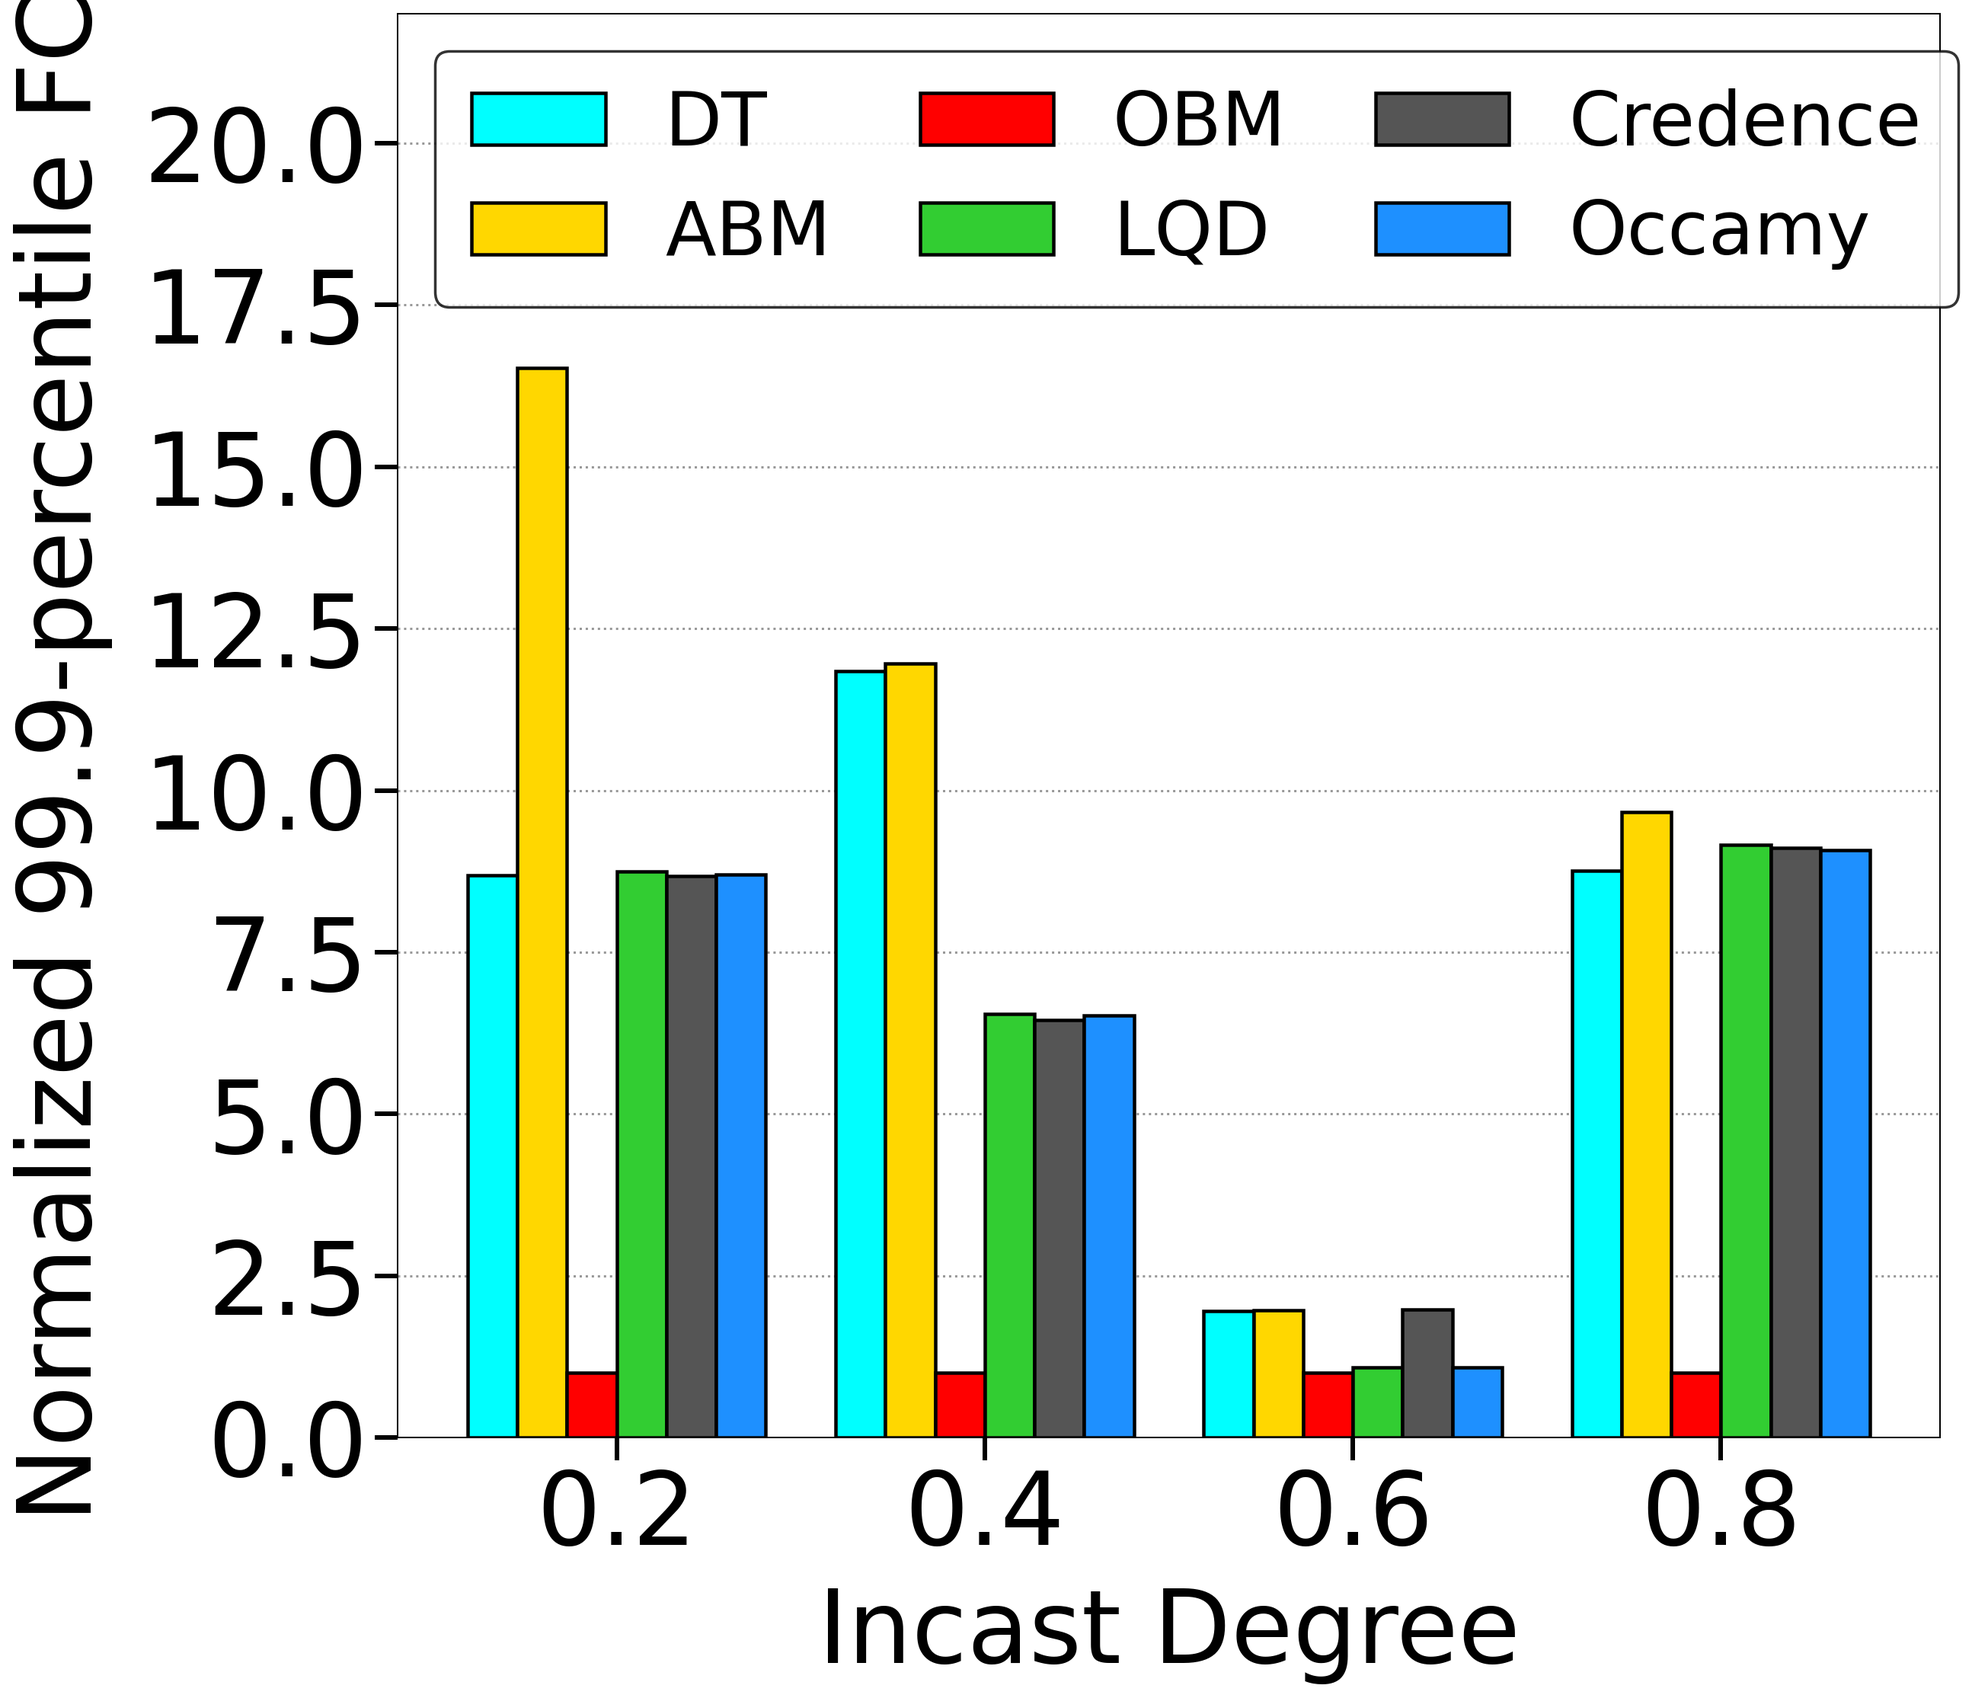
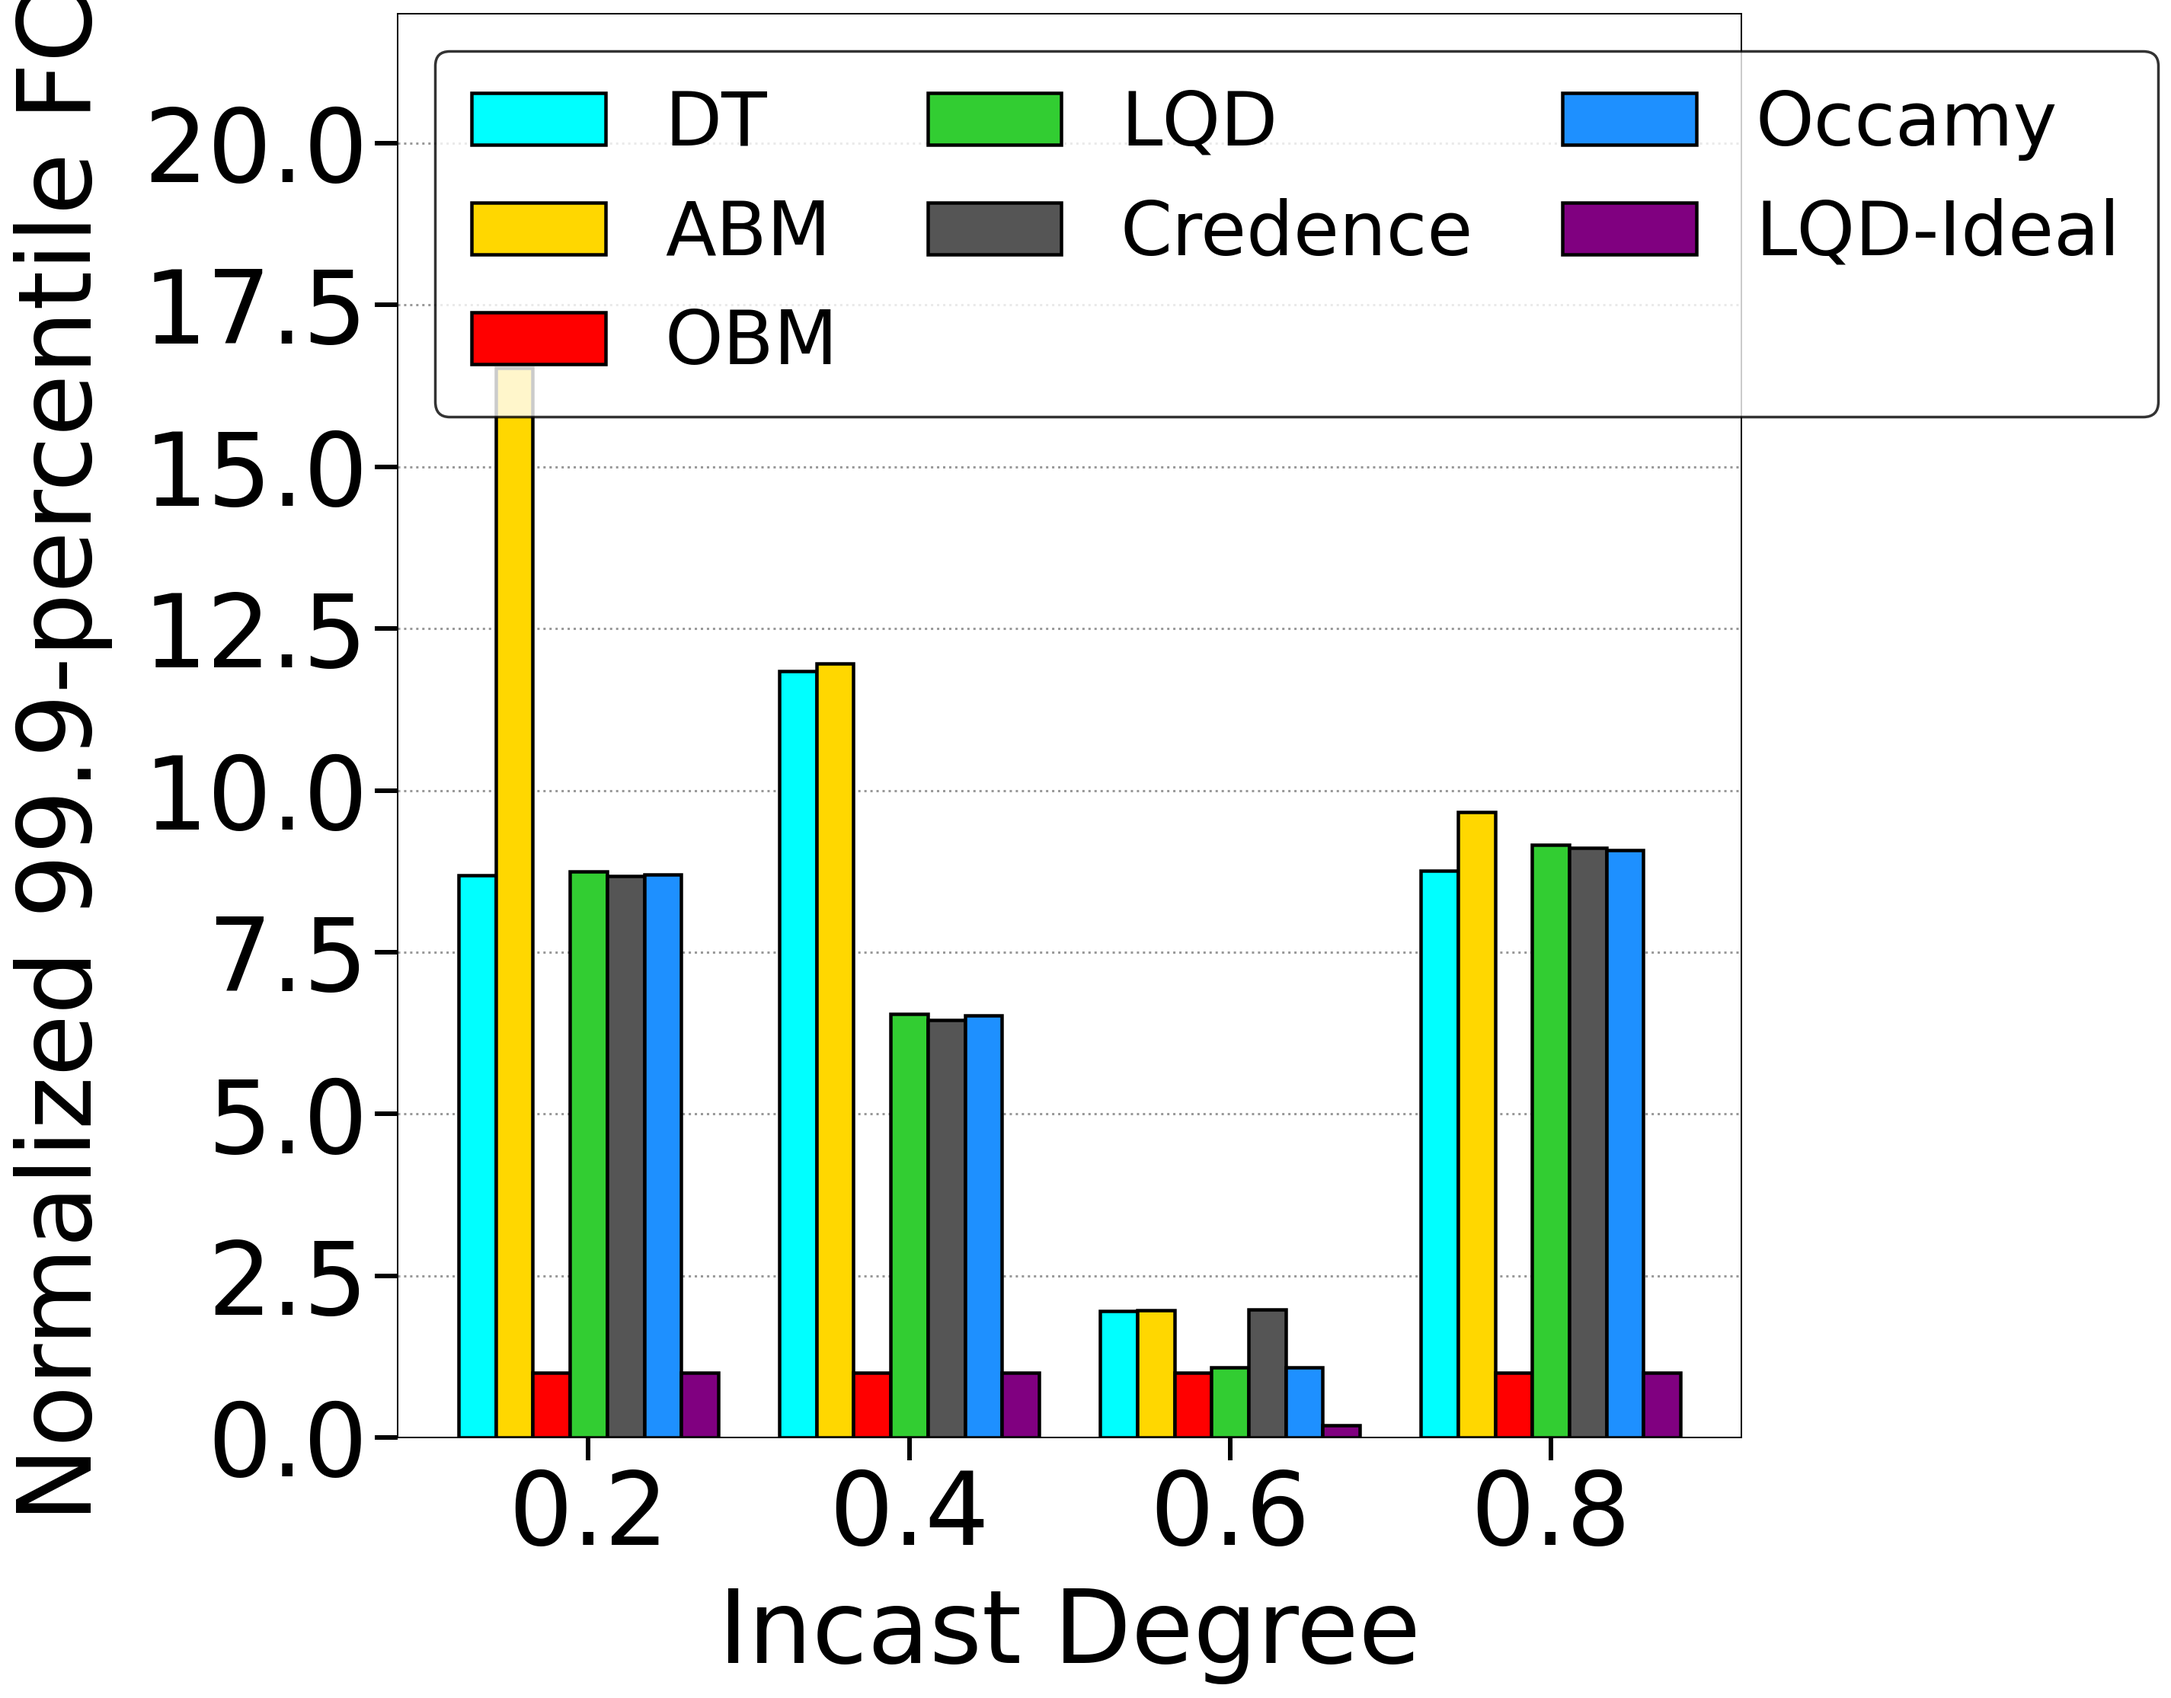
updated incast graphs with new bar for ideal-lqd

diff --git a/plot_fct.py b/plot_fct.py
@@ -38,10 +38,11 @@ ALGO_META = {
     "lqd":      ("LQD",      "#32CD32"),
     "credence": ("Credence", "#555555"),
     "occamy":   ("Occamy",   "#1E90FF"), # Added Occamy (Blue)
+    "lqd-ideal": ("LQD-Ideal", "#800080")  # Added LQD-Ideal (Purple)
 }
 
-# Updated order to include Occamy
-ORDERED_LABELS = ["DT", "ABM", "OBM", "LQD", "Credence", "Occamy"]
+# Updated order to include Occamy and LQD-Ideal
+ORDERED_LABELS = ["DT", "ABM", "OBM", "LQD", "Credence", "Occamy", "LQD-Ideal"]
 BASELINE_LABEL = "OBM"  # normalization reference (must match an ORDERED_LABELS item)
 
 DATASET_XLABEL = {"incast": "Incast Degree", "websearch": "Network Load"}
@@ -253,7 +254,7 @@ def main():
     ap = argparse.ArgumentParser()
     ap.add_argument("--files", nargs="*", default=[
         "stats_dt.txt", "stats_abm.txt", "stats_obm.txt",
-        "stats_lqd.txt", "stats_credence.txt", "stats_occamy.txt"
+        "stats_lqd.txt", "stats_lqd_ideal.txt", "stats_credence.txt", "stats_occamy.txt"
     ], help="Paths to stats files (any order).")
     ap.add_argument("--outdir", default=".", help="Where to write PNGs.")
     ap.add_argument("--dpi", type=int, default=180,
@@ -270,9 +271,11 @@ def main():
             if   "dt"       in base: algo_key = "dt"
             elif "abm"      in base: algo_key = "abm"
             elif "obm"      in base: algo_key = "obm"
+            elif "lqd_ideal" in base: algo_key = "lqd-ideal"
             elif "lqd"      in base: algo_key = "lqd"
             elif "credence" in base: algo_key = "credence"
             elif "occamy"   in base: algo_key = "occamy" # Added parsing for Occamy
+
         if not algo_key:
             continue
         if not os.path.isfile(path):
